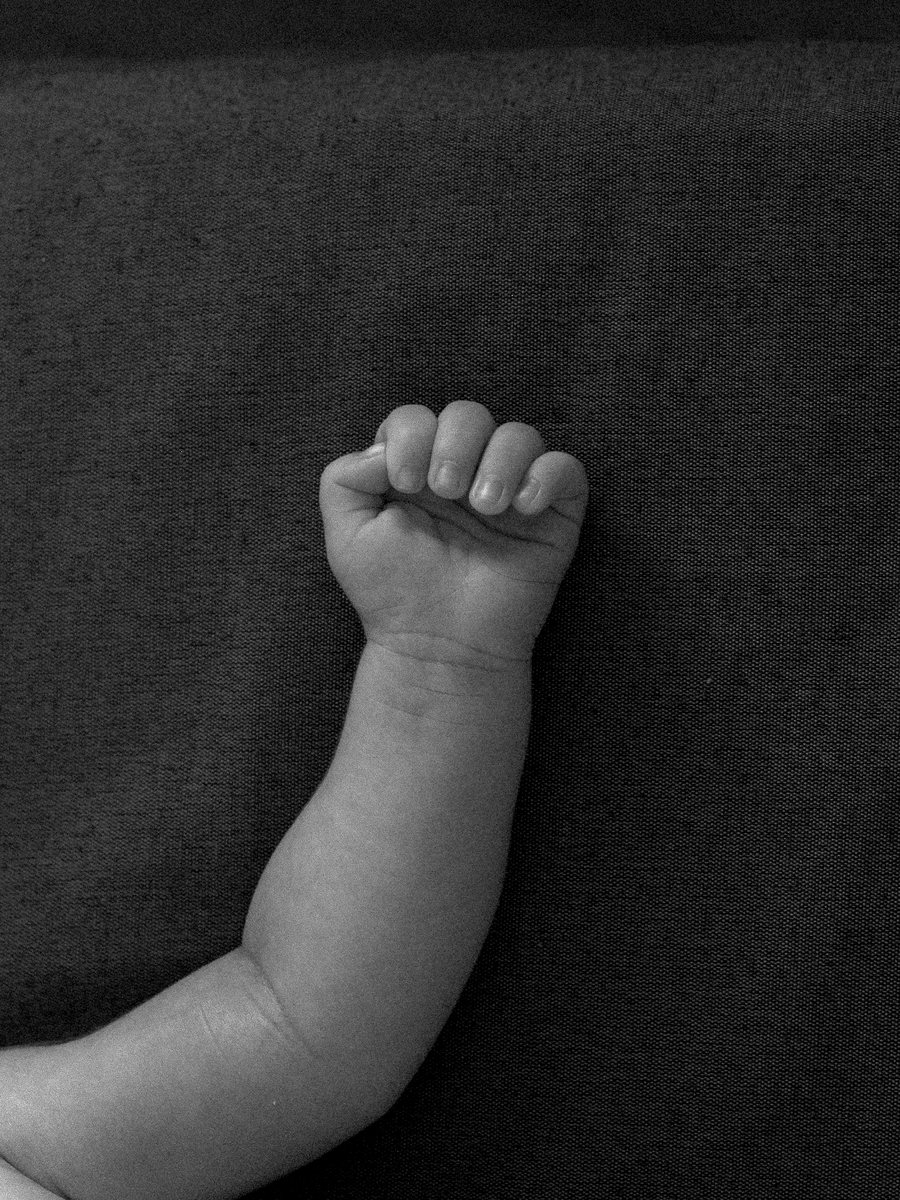
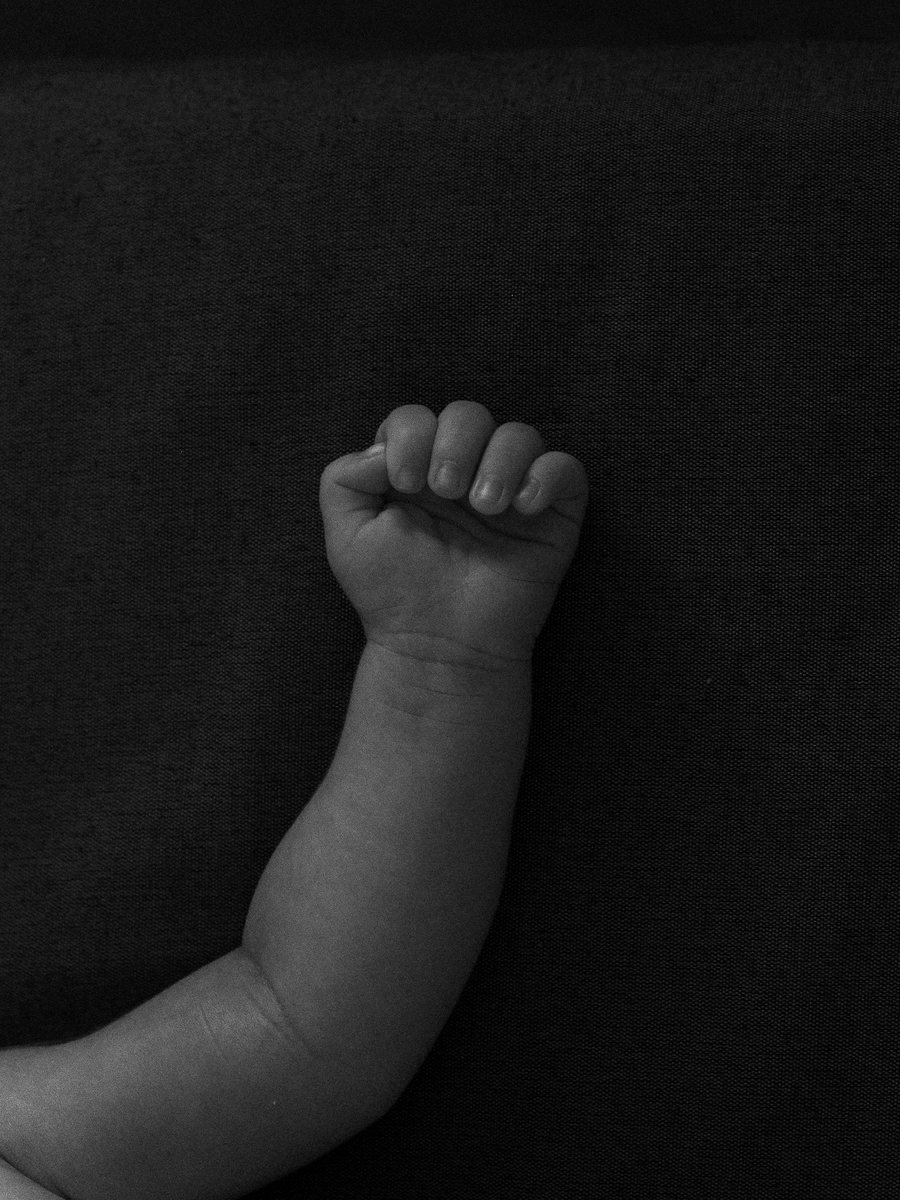
Foto del puny del nadó més fosca, gairebé com l'original
Claude-Session: https://claude.ai/code/session_01Gu4fKh15S1mJkh4ThjJ3MW

diff --git a/index.html b/index.html
@@ -258,7 +258,7 @@ body,.page{color:#f2ecde}
 <header class="bar" aria-hidden="true"><a class="wm" href="#inici">Pau Fotografia</a><nav><a href="#contacte" data-t="cont">Contacte</a></nav></header>
 <main class="page" id="inici">
   <section class="hero">
-    <picture><source media="(min-width:1200px)" srcset="/pack/hero-wide.jpg?v=20261118e"><img src="/pack/hero.jpg?v=20261118e" alt="Pau amb ulleres, fons desenfocat i una finestra nítida sobre mig rostre" fetchpriority="high"></picture>
+    <picture><source media="(min-width:1200px)" srcset="/pack/hero-wide.jpg?v=20261118f"><img src="/pack/hero.jpg?v=20261118f" alt="Pau amb ulleres, fons desenfocat i una finestra nítida sobre mig rostre" fetchpriority="high"></picture>
     <div class="top"><div class="sm" data-t="tag">Fotògraf social i documental</div>
       <div class="ctrls"><div class="toggle lang" role="group" aria-label="Idioma"><button class="on" data-lang="ca">CAT</button><span>|</span><button data-lang="es">ESP</button><span>|</span><button data-lang="en">ENG</button></div></div></div>
     <h1>Pau Fotografia</h1>
@@ -269,14 +269,14 @@ body,.page{color:#f2ecde}
     <div class="quote"><p data-t="quote">«El document humà per mantenir el present i el futur en contacte amb el passat.»</p><div class="lb">Lewis Hine</div></div>
   </section>
   <div class="hl"></div>
-  <div class="slider multi sl-elvi" style="aspect-ratio:1080/1150"><div class="track"><figure class="slide"><img class="b" data-v="elvi" src="/pack/elvi-color.jpg?v=20261118e" alt="Elvi somrient amb un floc de cabell davant la cara" loading="eager" style="object-position:50% 30%"><img class="o" data-v="elvi" src="/pack/elvi-bn.jpg?v=20261118e" alt="" aria-hidden="true" loading="lazy" style="object-position:50% 30%"><button class="sw" type="button" aria-label="Veure en blanc i negre"><i></i></button></figure><figure class="slide"><img class="b" data-v="elvi-01" src="/pack/elvi-01-color.jpg?v=20261118e" alt="Elvi amb les mans als cabells" loading="lazy" style="object-position:50% 30%"><img class="o" data-v="elvi-01" src="/pack/elvi-01-bn.jpg?v=20261118e" alt="" aria-hidden="true" loading="lazy" style="object-position:50% 30%"><button class="sw" type="button" aria-label="Veure en blanc i negre"><i></i></button></figure><figure class="slide"><img class="b" data-v="elvi-03" src="/pack/elvi-03-color.jpg?v=20261118e" alt="Elvi mirant de reüll" loading="lazy" style="object-position:50% 30%"><img class="o" data-v="elvi-03" src="/pack/elvi-03-bn.jpg?v=20261118e" alt="" aria-hidden="true" loading="lazy" style="object-position:50% 30%"><button class="sw" type="button" aria-label="Veure en blanc i negre"><i></i></button></figure><figure class="slide"><img class="b" data-v="elvi-04" src="/pack/elvi-04-color.jpg?v=20261118e" alt="Elvi de perfil a la finestra" loading="lazy" style="object-position:50% 30%"><img class="o" data-v="elvi-04" src="/pack/elvi-04-bn.jpg?v=20261118e" alt="" aria-hidden="true" loading="lazy" style="object-position:50% 30%"><button class="sw" type="button" aria-label="Veure en blanc i negre"><i></i></button></figure><figure class="slide"><img class="b" data-v="elvi-05" src="/pack/elvi-05-color.jpg?v=20261118e" alt="Elvi amb la llum de la cortina" loading="lazy" style="object-position:50% 30%"><img class="o" data-v="elvi-05" src="/pack/elvi-05-bn.jpg?v=20261118e" alt="" aria-hidden="true" loading="lazy" style="object-position:50% 30%"><button class="sw" type="button" aria-label="Veure en blanc i negre"><i></i></button></figure></div><div class="dots"><i class=on></i><i></i><i></i><i></i><i></i></div><div class="count">1/5</div><button class="nav prev" aria-label="Anterior">‹</button><button class="nav next" aria-label="Següent">›</button></div>
+  <div class="slider multi sl-elvi" style="aspect-ratio:1080/1150"><div class="track"><figure class="slide"><img class="b" data-v="elvi" src="/pack/elvi-color.jpg?v=20261118f" alt="Elvi somrient amb un floc de cabell davant la cara" loading="eager" style="object-position:50% 30%"><img class="o" data-v="elvi" src="/pack/elvi-bn.jpg?v=20261118f" alt="" aria-hidden="true" loading="lazy" style="object-position:50% 30%"><button class="sw" type="button" aria-label="Veure en blanc i negre"><i></i></button></figure><figure class="slide"><img class="b" data-v="elvi-01" src="/pack/elvi-01-color.jpg?v=20261118f" alt="Elvi amb les mans als cabells" loading="lazy" style="object-position:50% 30%"><img class="o" data-v="elvi-01" src="/pack/elvi-01-bn.jpg?v=20261118f" alt="" aria-hidden="true" loading="lazy" style="object-position:50% 30%"><button class="sw" type="button" aria-label="Veure en blanc i negre"><i></i></button></figure><figure class="slide"><img class="b" data-v="elvi-03" src="/pack/elvi-03-color.jpg?v=20261118f" alt="Elvi mirant de reüll" loading="lazy" style="object-position:50% 30%"><img class="o" data-v="elvi-03" src="/pack/elvi-03-bn.jpg?v=20261118f" alt="" aria-hidden="true" loading="lazy" style="object-position:50% 30%"><button class="sw" type="button" aria-label="Veure en blanc i negre"><i></i></button></figure><figure class="slide"><img class="b" data-v="elvi-04" src="/pack/elvi-04-color.jpg?v=20261118f" alt="Elvi de perfil a la finestra" loading="lazy" style="object-position:50% 30%"><img class="o" data-v="elvi-04" src="/pack/elvi-04-bn.jpg?v=20261118f" alt="" aria-hidden="true" loading="lazy" style="object-position:50% 30%"><button class="sw" type="button" aria-label="Veure en blanc i negre"><i></i></button></figure><figure class="slide"><img class="b" data-v="elvi-05" src="/pack/elvi-05-color.jpg?v=20261118f" alt="Elvi amb la llum de la cortina" loading="lazy" style="object-position:50% 30%"><img class="o" data-v="elvi-05" src="/pack/elvi-05-bn.jpg?v=20261118f" alt="" aria-hidden="true" loading="lazy" style="object-position:50% 30%"><button class="sw" type="button" aria-label="Veure en blanc i negre"><i></i></button></figure></div><div class="dots"><i class=on></i><i></i><i></i><i></i><i></i></div><div class="count">1/5</div><button class="nav prev" aria-label="Anterior">‹</button><button class="nav next" aria-label="Següent">›</button></div>
   <div class="hl"></div>
   <section class="com pad">
     <div class="lb" data-t="com">Com treballo</div>
     <p class="body" data-t="ct">Sense estudi ni decorats, als llocs quotidians i còmodes. Tu tries l'espai i el vestuari. Jo m'adapto i interfereixo el mínim perquè la càmera no sigui un obstacle per captar aquell gest, somriure o mirada espontània i real.</p>
   </section>
   <div class="hl"></div>
-  <div class="pair"><div class="slider multi sl-nuvis" style="aspect-ratio:540/720"><div class="track"><figure class="slide"><img class="b" data-v="nuvis" src="/pack/nuvis-color.jpg?v=20261118e" alt="Parella de nuvis rient a la porta" loading="lazy" style="object-position:50% 50%"><img class="o" data-v="nuvis" src="/pack/nuvis-bn.jpg?v=20261118e" alt="" aria-hidden="true" loading="lazy" style="object-position:50% 50%"><button class="sw" type="button" aria-label="Veure en blanc i negre"><i></i></button></figure><figure class="slide"><img class="b" data-v="casament-pandemia-05" src="/pack/casament-pandemia-05-color.jpg?v=20261118e" alt="Nuvis amb mascareta" loading="lazy" style="object-position:50% 50%"><img class="o" data-v="casament-pandemia-05" src="/pack/casament-pandemia-05-bn.jpg?v=20261118e" alt="" aria-hidden="true" loading="lazy" style="object-position:50% 50%"><button class="sw" type="button" aria-label="Veure en blanc i negre"><i></i></button></figure><figure class="slide"><img class="b" data-v="casament-pandemia-02" src="/pack/casament-pandemia-02-color.jpg?v=20261118e" alt="Ajustant el vestit" loading="lazy" style="object-position:50% 30%"><img class="o" data-v="casament-pandemia-02" src="/pack/casament-pandemia-02-bn.jpg?v=20261118e" alt="" aria-hidden="true" loading="lazy" style="object-position:50% 30%"><button class="sw" type="button" aria-label="Veure en blanc i negre"><i></i></button></figure><figure class="slide mono"><img class="b" data-v="casament-pandemia-04" src="/pack/casament-pandemia-04-bn.jpg?v=20261118e" alt="Sortida entre arròs" loading="lazy" style="object-position:50% 50%"></figure><figure class="slide mono"><img class="b" data-v="casament-pandemia-08" src="/pack/casament-pandemia-08-bn.jpg?v=20261118e" alt="La cerimònia" loading="lazy" style="object-position:50% 50%"></figure><figure class="slide mono"><img class="b" data-v="casament-pandemia-01" src="/pack/casament-pandemia-01-bn.jpg?v=20261118e" alt="Pentinat davant del mirall" loading="lazy" style="object-position:50% 50%"></figure></div><div class="dots"><i class=on></i><i></i><i></i><i></i><i></i><i></i></div><div class="count">1/6</div><button class="nav prev" aria-label="Anterior">‹</button><button class="nav next" aria-label="Següent">›</button></div><div class="slider multi sl-maneta" style="aspect-ratio:540/720"><div class="track"><figure class="slide"><img class="b" data-v="maneta" src="/pack/maneta-color.jpg?v=20261118e" alt="Mà d’un nadó sobre la pell" loading="lazy" style="object-position:50% 50%"><img class="o" data-v="maneta" src="/pack/maneta-bn.jpg?v=20261118e" alt="" aria-hidden="true" loading="lazy" style="object-position:50% 50%"><button class="sw" type="button" aria-label="Veure en blanc i negre"><i></i></button></figure><figure class="slide mono"><img class="b" data-v="familia-05" src="/pack/familia-05-bn.jpg?v=20261118e" alt="Peus petits" loading="lazy" style="object-position:50% 50%"></figure><figure class="slide"><img class="b" data-v="familia-07" src="/pack/familia-07-color.jpg?v=20261118e" alt="La mà a l’esquena" loading="lazy" style="object-position:50% 50%"><img class="o" data-v="familia-07" src="/pack/familia-07-bn.jpg?v=20261118e" alt="" aria-hidden="true" loading="lazy" style="object-position:50% 50%"><button class="sw" type="button" aria-label="Veure en blanc i negre"><i></i></button></figure><figure class="slide mono"><img class="b" data-v="bebe-01" src="/pack/bebe-01-bn.jpg?v=20261118e" alt="Un germà gran mirant el nadó" loading="lazy" style="object-position:50% 45%"></figure><figure class="slide mono"><img class="b" data-v="bebe-02" src="/pack/bebe-02-bn.jpg?v=20261118e" alt="Un nadó mamant als braços de la mare" loading="lazy" style="object-position:50% 40%"></figure><figure class="slide mono"><img class="b" data-v="bebe-03" src="/pack/bebe-03-bn.jpg?v=20261118e" alt="El braç i el puny d’un nadó" loading="lazy" style="object-position:50% 50%"></figure></div><div class="dots"><i class=on></i><i></i><i></i><i></i><i></i><i></i></div><div class="count">1/6</div><button class="nav prev" aria-label="Anterior">‹</button><button class="nav next" aria-label="Següent">›</button></div></div>
+  <div class="pair"><div class="slider multi sl-nuvis" style="aspect-ratio:540/720"><div class="track"><figure class="slide"><img class="b" data-v="nuvis" src="/pack/nuvis-color.jpg?v=20261118f" alt="Parella de nuvis rient a la porta" loading="lazy" style="object-position:50% 50%"><img class="o" data-v="nuvis" src="/pack/nuvis-bn.jpg?v=20261118f" alt="" aria-hidden="true" loading="lazy" style="object-position:50% 50%"><button class="sw" type="button" aria-label="Veure en blanc i negre"><i></i></button></figure><figure class="slide"><img class="b" data-v="casament-pandemia-05" src="/pack/casament-pandemia-05-color.jpg?v=20261118f" alt="Nuvis amb mascareta" loading="lazy" style="object-position:50% 50%"><img class="o" data-v="casament-pandemia-05" src="/pack/casament-pandemia-05-bn.jpg?v=20261118f" alt="" aria-hidden="true" loading="lazy" style="object-position:50% 50%"><button class="sw" type="button" aria-label="Veure en blanc i negre"><i></i></button></figure><figure class="slide"><img class="b" data-v="casament-pandemia-02" src="/pack/casament-pandemia-02-color.jpg?v=20261118f" alt="Ajustant el vestit" loading="lazy" style="object-position:50% 30%"><img class="o" data-v="casament-pandemia-02" src="/pack/casament-pandemia-02-bn.jpg?v=20261118f" alt="" aria-hidden="true" loading="lazy" style="object-position:50% 30%"><button class="sw" type="button" aria-label="Veure en blanc i negre"><i></i></button></figure><figure class="slide mono"><img class="b" data-v="casament-pandemia-04" src="/pack/casament-pandemia-04-bn.jpg?v=20261118f" alt="Sortida entre arròs" loading="lazy" style="object-position:50% 50%"></figure><figure class="slide mono"><img class="b" data-v="casament-pandemia-08" src="/pack/casament-pandemia-08-bn.jpg?v=20261118f" alt="La cerimònia" loading="lazy" style="object-position:50% 50%"></figure><figure class="slide mono"><img class="b" data-v="casament-pandemia-01" src="/pack/casament-pandemia-01-bn.jpg?v=20261118f" alt="Pentinat davant del mirall" loading="lazy" style="object-position:50% 50%"></figure></div><div class="dots"><i class=on></i><i></i><i></i><i></i><i></i><i></i></div><div class="count">1/6</div><button class="nav prev" aria-label="Anterior">‹</button><button class="nav next" aria-label="Següent">›</button></div><div class="slider multi sl-maneta" style="aspect-ratio:540/720"><div class="track"><figure class="slide"><img class="b" data-v="maneta" src="/pack/maneta-color.jpg?v=20261118f" alt="Mà d’un nadó sobre la pell" loading="lazy" style="object-position:50% 50%"><img class="o" data-v="maneta" src="/pack/maneta-bn.jpg?v=20261118f" alt="" aria-hidden="true" loading="lazy" style="object-position:50% 50%"><button class="sw" type="button" aria-label="Veure en blanc i negre"><i></i></button></figure><figure class="slide mono"><img class="b" data-v="familia-05" src="/pack/familia-05-bn.jpg?v=20261118f" alt="Peus petits" loading="lazy" style="object-position:50% 50%"></figure><figure class="slide"><img class="b" data-v="familia-07" src="/pack/familia-07-color.jpg?v=20261118f" alt="La mà a l’esquena" loading="lazy" style="object-position:50% 50%"><img class="o" data-v="familia-07" src="/pack/familia-07-bn.jpg?v=20261118f" alt="" aria-hidden="true" loading="lazy" style="object-position:50% 50%"><button class="sw" type="button" aria-label="Veure en blanc i negre"><i></i></button></figure><figure class="slide mono"><img class="b" data-v="bebe-01" src="/pack/bebe-01-bn.jpg?v=20261118f" alt="Un germà gran mirant el nadó" loading="lazy" style="object-position:50% 45%"></figure><figure class="slide mono"><img class="b" data-v="bebe-02" src="/pack/bebe-02-bn.jpg?v=20261118f" alt="Un nadó mamant als braços de la mare" loading="lazy" style="object-position:50% 40%"></figure><figure class="slide mono"><img class="b" data-v="bebe-03" src="/pack/bebe-03-bn.jpg?v=20261118f" alt="El braç i el puny d’un nadó" loading="lazy" style="object-position:50% 50%"></figure></div><div class="dots"><i class=on></i><i></i><i></i><i></i><i></i><i></i></div><div class="count">1/6</div><button class="nav prev" aria-label="Anterior">‹</button><button class="nav next" aria-label="Següent">›</button></div></div>
   <div class="hl"></div>
   <section class="pack">
     <div class="prow"><button class="pill" type="button" aria-haspopup="dialog"><span data-t="pack">Pack promocional – Llançament</span><i class="pplus" aria-hidden="true"></i></button><div class="price">89 €<span class="ast">*</span></div>
@@ -284,9 +284,9 @@ body,.page{color:#f2ecde}
     <div class="ptypes" data-t="tipus"><span>Retrat</span><i>·</i><span>Família</span><i>·</i><span>Embaràs</span><i>·</i><span>Parella</span></div>
   </section>
   <div class="hl"></div>
-  <div class="slider sl-mocador" style="aspect-ratio:1080/720"><div class="track"><figure class="slide"><img class="b" data-v="mocador" src="/pack/mocador-color.jpg?v=20261118e" alt="Retrat d’una dona amb mocador entre el fum" loading="lazy" style="object-position:50% 40%"><img class="o" data-v="mocador" src="/pack/mocador-bn.jpg?v=20261118e" alt="" aria-hidden="true" loading="lazy" style="object-position:50% 40%"><button class="sw" type="button" aria-label="Veure en blanc i negre"><i></i></button></figure></div></div>
+  <div class="slider sl-mocador" style="aspect-ratio:1080/720"><div class="track"><figure class="slide"><img class="b" data-v="mocador" src="/pack/mocador-color.jpg?v=20261118f" alt="Retrat d’una dona amb mocador entre el fum" loading="lazy" style="object-position:50% 40%"><img class="o" data-v="mocador" src="/pack/mocador-bn.jpg?v=20261118f" alt="" aria-hidden="true" loading="lazy" style="object-position:50% 40%"><button class="sw" type="button" aria-label="Veure en blanc i negre"><i></i></button></figure></div></div>
   <div class="hl"></div>
-  <div class="pair"><div class="slider multi sl-ulleres" style="aspect-ratio:540/720"><div class="track"><figure class="slide"><img class="b" data-v="ulleres" src="/pack/ulleres-color.jpg?v=20261118e" alt="Home rient amb ulleres de sol" loading="lazy" style="object-position:50% 50%"><img class="o" data-v="ulleres" src="/pack/ulleres-bn.jpg?v=20261118e" alt="" aria-hidden="true" loading="lazy" style="object-position:50% 50%"><button class="sw" type="button" aria-label="Veure en blanc i negre"><i></i></button></figure><figure class="slide"><img class="b" data-v="llum-desembre-05" src="/pack/llum-desembre-05-color.jpg?v=20261118e" alt="Cara al sol" loading="lazy" style="object-position:64% 50%"><img class="o" data-v="llum-desembre-05" src="/pack/llum-desembre-05-bn.jpg?v=20261118e" alt="" aria-hidden="true" loading="lazy" style="object-position:64% 50%"><button class="sw" type="button" aria-label="Veure en blanc i negre"><i></i></button></figure><figure class="slide"><img class="b" data-v="llum-desembre-02" src="/pack/llum-desembre-02-color.jpg?v=20261118e" alt="Somriure amb caputxa" loading="lazy" style="object-position:52% 50%"><img class="o" data-v="llum-desembre-02" src="/pack/llum-desembre-02-bn.jpg?v=20261118e" alt="" aria-hidden="true" loading="lazy" style="object-position:52% 50%"><button class="sw" type="button" aria-label="Veure en blanc i negre"><i></i></button></figure><figure class="slide"><img class="b" data-v="llum-desembre-04" src="/pack/llum-desembre-04-color.jpg?v=20261118e" alt="Per sobre de les ulleres" loading="lazy" style="object-position:56% 50%"><img class="o" data-v="llum-desembre-04" src="/pack/llum-desembre-04-bn.jpg?v=20261118e" alt="" aria-hidden="true" loading="lazy" style="object-position:56% 50%"><button class="sw" type="button" aria-label="Veure en blanc i negre"><i></i></button></figure><figure class="slide"><img class="b" data-v="llum-desembre-01" src="/pack/llum-desembre-01-color.jpg?v=20261118e" alt="Mitja cara a la llum" loading="lazy" style="object-position:54% 50%"><img class="o" data-v="llum-desembre-01" src="/pack/llum-desembre-01-bn.jpg?v=20261118e" alt="" aria-hidden="true" loading="lazy" style="object-position:54% 50%"><button class="sw" type="button" aria-label="Veure en blanc i negre"><i></i></button></figure></div><div class="dots"><i class=on></i><i></i><i></i><i></i><i></i></div><div class="count">1/5</div><button class="nav prev" aria-label="Anterior">‹</button><button class="nav next" aria-label="Següent">›</button></div><div class="slider multi sl-confeti" style="aspect-ratio:540/720"><div class="track"><figure class="slide"><img class="b" data-v="confeti" src="/pack/confeti-color.jpg?v=20261118e" alt="Nuvis sortint entre confeti amb el ram a l’aire" loading="lazy" style="object-position:64% 50%"><img class="o" data-v="confeti" src="/pack/confeti-bn.jpg?v=20261118e" alt="" aria-hidden="true" loading="lazy" style="object-position:64% 50%"><button class="sw" type="button" aria-label="Veure en blanc i negre"><i></i></button></figure><figure class="slide"><img class="b" data-v="casament-01" src="/pack/casament-01-color.jpg?v=20261118e" alt="Sortida entre confeti" loading="lazy" style="object-position:55% 50%"><img class="o" data-v="casament-01" src="/pack/casament-01-bn.jpg?v=20261118e" alt="" aria-hidden="true" loading="lazy" style="object-position:55% 50%"><button class="sw" type="button" aria-label="Veure en blanc i negre"><i></i></button></figure></div><div class="dots"><i class=on></i><i></i></div><div class="count">1/2</div><button class="nav prev" aria-label="Anterior">‹</button><button class="nav next" aria-label="Següent">›</button></div></div>
+  <div class="pair"><div class="slider multi sl-ulleres" style="aspect-ratio:540/720"><div class="track"><figure class="slide"><img class="b" data-v="ulleres" src="/pack/ulleres-color.jpg?v=20261118f" alt="Home rient amb ulleres de sol" loading="lazy" style="object-position:50% 50%"><img class="o" data-v="ulleres" src="/pack/ulleres-bn.jpg?v=20261118f" alt="" aria-hidden="true" loading="lazy" style="object-position:50% 50%"><button class="sw" type="button" aria-label="Veure en blanc i negre"><i></i></button></figure><figure class="slide"><img class="b" data-v="llum-desembre-05" src="/pack/llum-desembre-05-color.jpg?v=20261118f" alt="Cara al sol" loading="lazy" style="object-position:64% 50%"><img class="o" data-v="llum-desembre-05" src="/pack/llum-desembre-05-bn.jpg?v=20261118f" alt="" aria-hidden="true" loading="lazy" style="object-position:64% 50%"><button class="sw" type="button" aria-label="Veure en blanc i negre"><i></i></button></figure><figure class="slide"><img class="b" data-v="llum-desembre-02" src="/pack/llum-desembre-02-color.jpg?v=20261118f" alt="Somriure amb caputxa" loading="lazy" style="object-position:52% 50%"><img class="o" data-v="llum-desembre-02" src="/pack/llum-desembre-02-bn.jpg?v=20261118f" alt="" aria-hidden="true" loading="lazy" style="object-position:52% 50%"><button class="sw" type="button" aria-label="Veure en blanc i negre"><i></i></button></figure><figure class="slide"><img class="b" data-v="llum-desembre-04" src="/pack/llum-desembre-04-color.jpg?v=20261118f" alt="Per sobre de les ulleres" loading="lazy" style="object-position:56% 50%"><img class="o" data-v="llum-desembre-04" src="/pack/llum-desembre-04-bn.jpg?v=20261118f" alt="" aria-hidden="true" loading="lazy" style="object-position:56% 50%"><button class="sw" type="button" aria-label="Veure en blanc i negre"><i></i></button></figure><figure class="slide"><img class="b" data-v="llum-desembre-01" src="/pack/llum-desembre-01-color.jpg?v=20261118f" alt="Mitja cara a la llum" loading="lazy" style="object-position:54% 50%"><img class="o" data-v="llum-desembre-01" src="/pack/llum-desembre-01-bn.jpg?v=20261118f" alt="" aria-hidden="true" loading="lazy" style="object-position:54% 50%"><button class="sw" type="button" aria-label="Veure en blanc i negre"><i></i></button></figure></div><div class="dots"><i class=on></i><i></i><i></i><i></i><i></i></div><div class="count">1/5</div><button class="nav prev" aria-label="Anterior">‹</button><button class="nav next" aria-label="Següent">›</button></div><div class="slider multi sl-confeti" style="aspect-ratio:540/720"><div class="track"><figure class="slide"><img class="b" data-v="confeti" src="/pack/confeti-color.jpg?v=20261118f" alt="Nuvis sortint entre confeti amb el ram a l’aire" loading="lazy" style="object-position:64% 50%"><img class="o" data-v="confeti" src="/pack/confeti-bn.jpg?v=20261118f" alt="" aria-hidden="true" loading="lazy" style="object-position:64% 50%"><button class="sw" type="button" aria-label="Veure en blanc i negre"><i></i></button></figure><figure class="slide"><img class="b" data-v="casament-01" src="/pack/casament-01-color.jpg?v=20261118f" alt="Sortida entre confeti" loading="lazy" style="object-position:55% 50%"><img class="o" data-v="casament-01" src="/pack/casament-01-bn.jpg?v=20261118f" alt="" aria-hidden="true" loading="lazy" style="object-position:55% 50%"><button class="sw" type="button" aria-label="Veure en blanc i negre"><i></i></button></figure></div><div class="dots"><i class=on></i><i></i></div><div class="count">1/2</div><button class="nav prev" aria-label="Anterior">‹</button><button class="nav next" aria-label="Següent">›</button></div></div>
   <div class="hl"></div>
   <section class="contact pad" id="contacte">
     <div class="gear">
@@ -323,7 +323,7 @@ document.querySelectorAll('.slider.multi').forEach(function(s){
 var MODE='color';
 function L(){var l=document.documentElement.lang;return {ca:{swb:'Veure en blanc i negre',swc:'Veure en color'},es:{swb:'Ver en blanco y negro',swc:'Ver en color'},en:{swb:'View in black and white',swc:'View in colour'}}[l]||{swb:'Veure en blanc i negre',swc:'Veure en color'}}
 function other(){return MODE==='bn'?'color':'bn'}
-function src2(o){return '/pack/'+o.dataset.v+'-'+other()+'.jpg?v=20261118e'}
+function src2(o){return '/pack/'+o.dataset.v+'-'+other()+'.jpg?v=20261118f'}
 function setX(f,x,anim){
   var o=f.querySelector('.o');if(!o.getAttribute('src'))o.src=src2(o);
   f.classList.toggle('drag',!anim);f._x=x;
